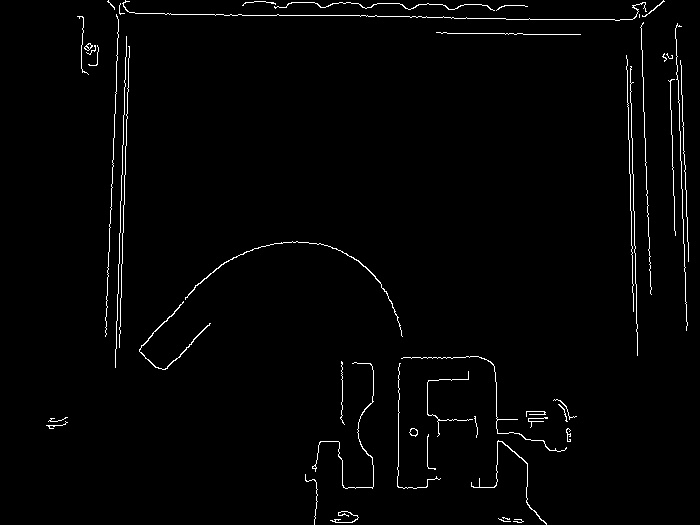
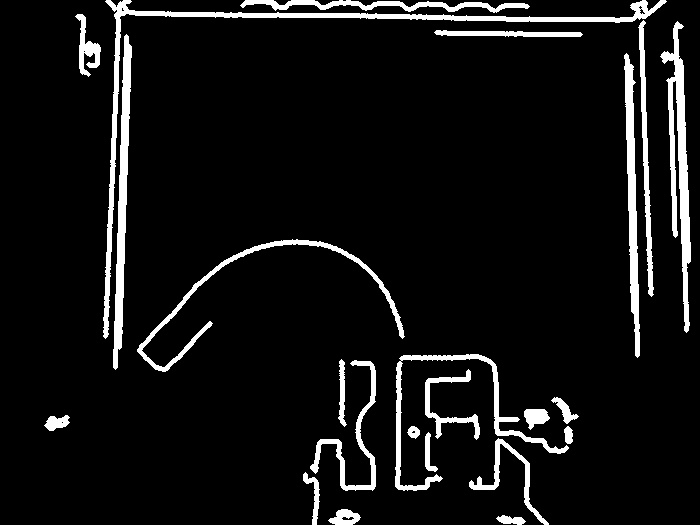
edit: contour image

diff --git a/find-contours/find-contour.cpp b/find-contours/find-contour.cpp
@@ -43,7 +43,7 @@ void thresh_callback(int, void* ){
     drawing = Mat::zeros( canny_output.size(), CV_8UC3 );
     for( size_t i = 0; i< contours.size(); i++ ){
         Scalar color = Scalar( 255, 255, 255);
-        drawContours( drawing, contours, (int)i, color, 1, LINE_8, hierarchy, 0 );
+        drawContours( drawing, contours, (int)i, color, 3, LINE_8, hierarchy, 0 );
     }
     imshow( "Contours", drawing );
 }
